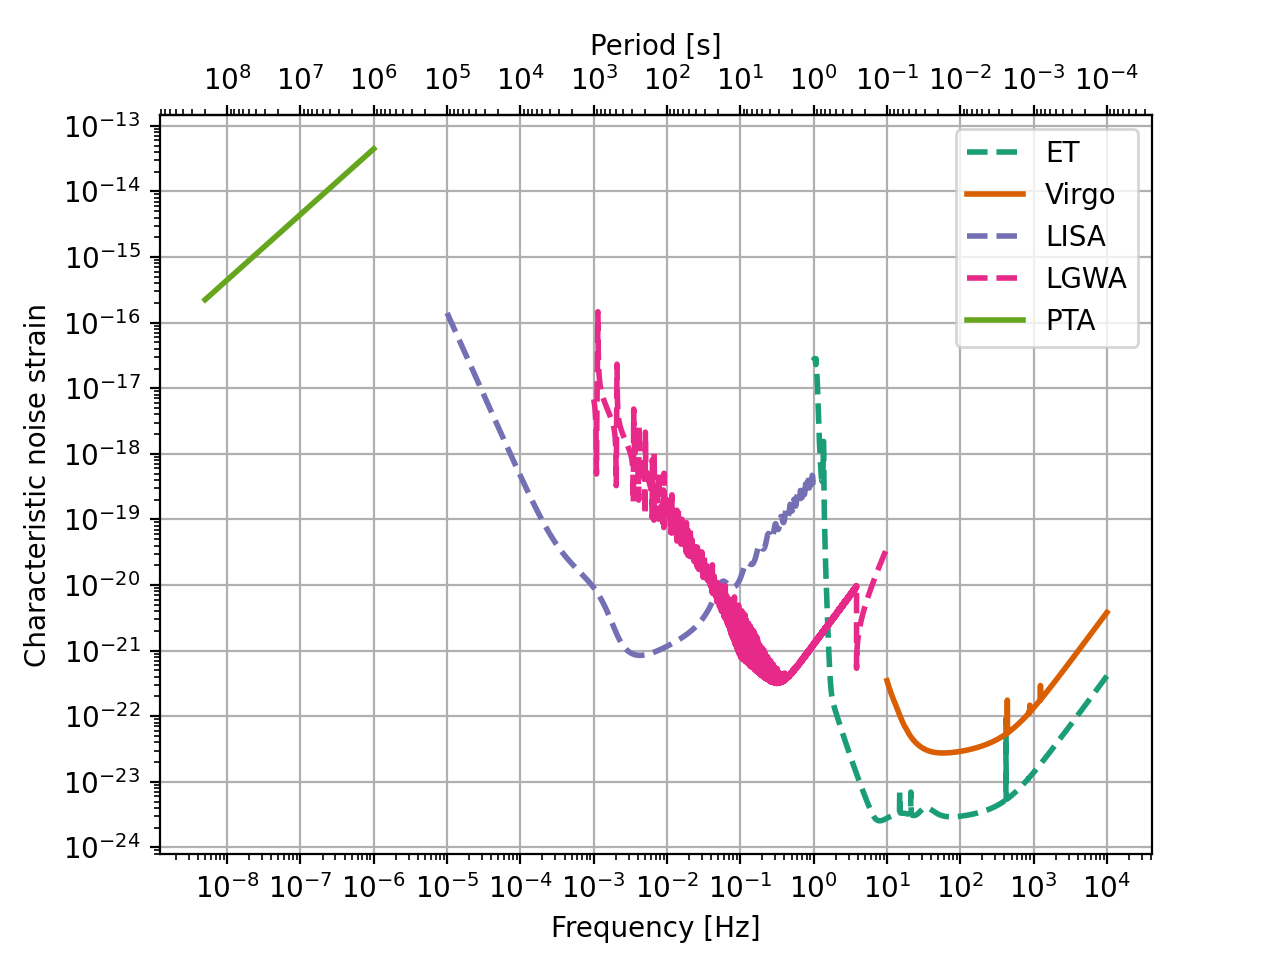
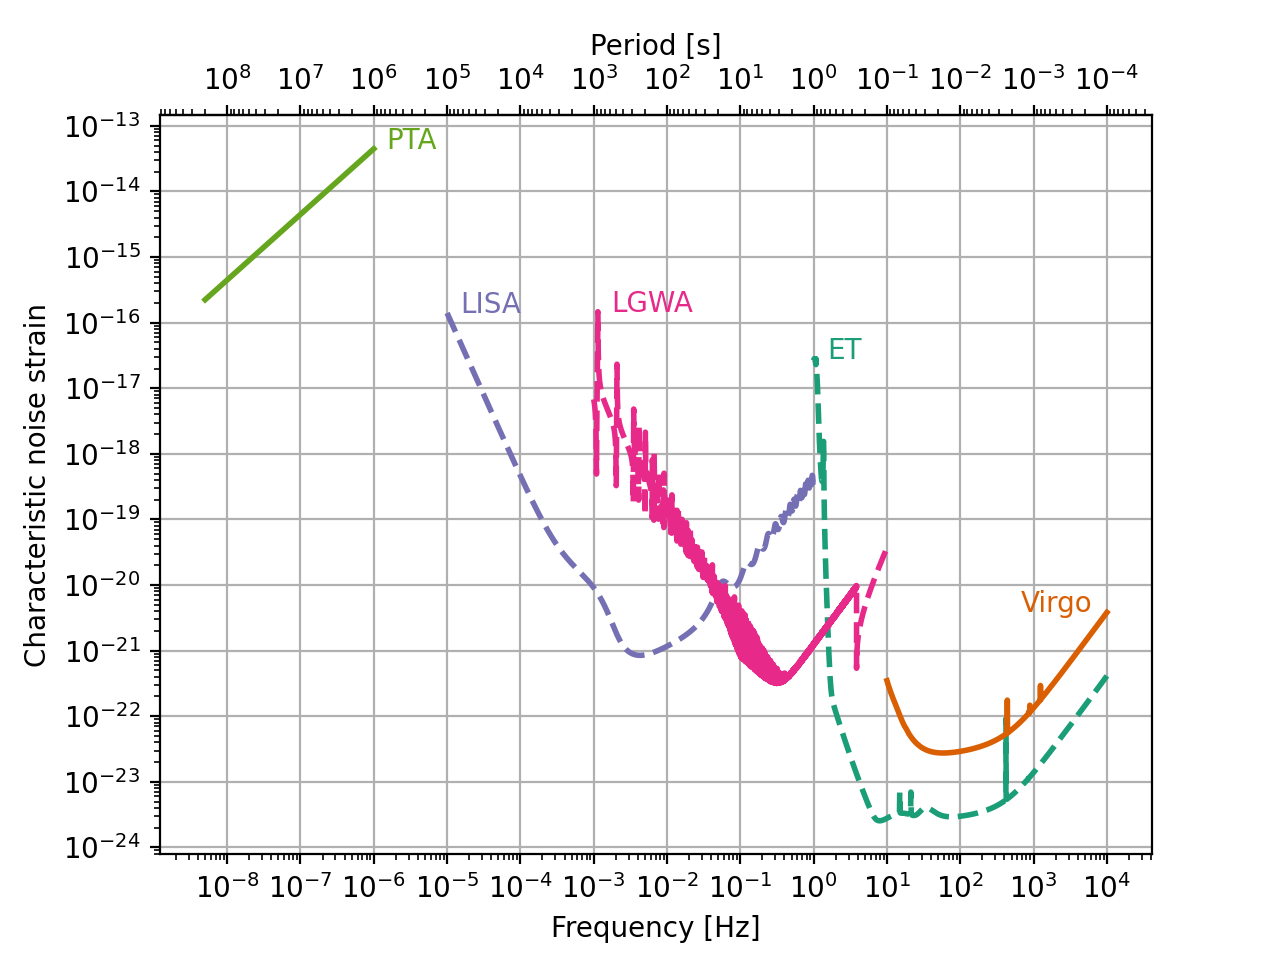
moved labels inside plot

diff --git a/gw_landscape/detectors.py b/gw_landscape/detectors.py
@@ -27,3 +27,13 @@ class Detector(ABC):
     @property
     def characteristic_strain(self) -> np.ndarray:
         return np.sqrt(self.frequencies * self.psd)
+    
+    @property
+    def annotation_place(self) -> tuple[float, float]:
+        max_strain_idx = np.argmax(self.characteristic_strain)
+        
+        if self.name == 'Virgo':
+            return (self.frequencies[max_strain_idx]/15., self.characteristic_strain[max_strain_idx])
+            
+        
+        return (self.frequencies[max_strain_idx]*1.5, self.characteristic_strain[max_strain_idx])

diff --git a/gw_landscape/gw_landscape_plot.py b/gw_landscape/gw_landscape_plot.py
@@ -26,9 +26,9 @@ if __name__ == '__main__':
     
     for detector in detector_list:
         ls = None if detector.working else '--'
-        plt.plot(detector.frequencies, detector.characteristic_strain, label=detector.name, ls=ls, lw=2)
+        lines = plt.plot(detector.frequencies, detector.characteristic_strain, ls=ls, lw=2)
+        plt.annotate(detector.name, detector.annotation_place, color=lines[0].get_color())
 
-    plt.legend()
     plt.xscale('log')
     plt.yscale('log')
     ax_freq = plt.gca()
